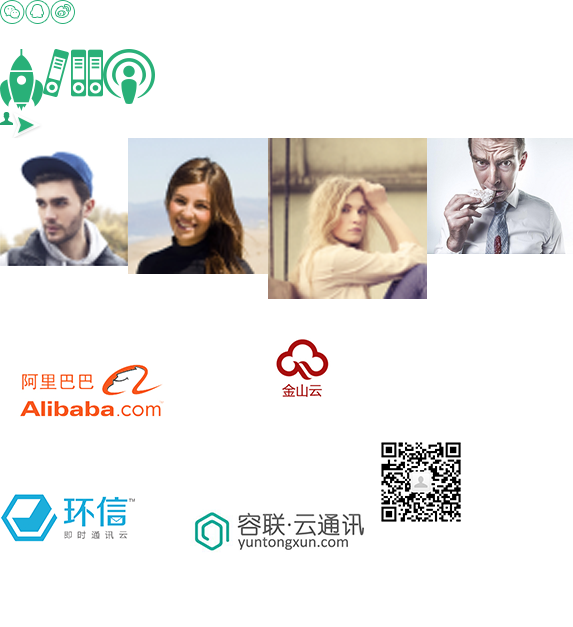
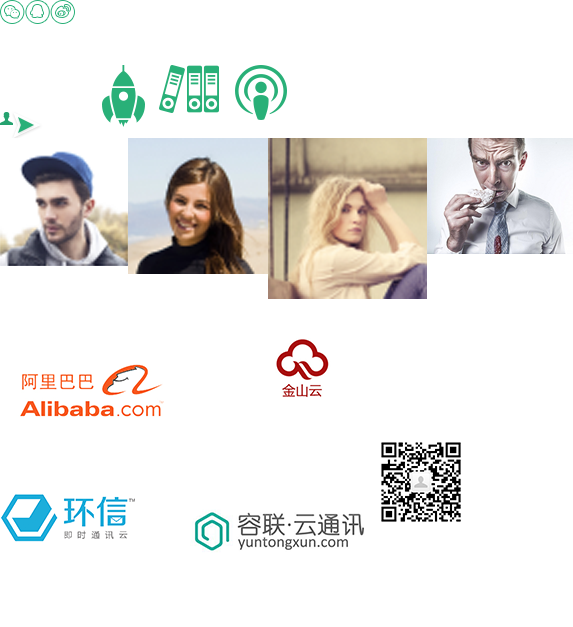
task8.2

Changed region(s): [[0.0, 0.0606, 0.5044, 0.2121]]

diff --git a/task8/task8-1.htm b/task8/task8-1.htm
@@ -81,17 +81,17 @@
 <div class="container-fluid" style="width:90%;margin:0 auto;">
     <div class="row" style="margin-top: 10%;">
     	<div class="col-xs-12 col-sm-6 col-md-6 col-lg-3" style="display: inline-block;text-align: center;margin-bottom: 10%;">
-    		<span style="display: inline-block; background: url(img/task8-1.png);background-position: 0 -49px; height: 62px;width: 43px;"></span>
+    		<span style="display: inline-block; background: url(img/task8-1.png);background-position: -95px -66px; height: 62px;width:60px;"></span>
     		<h3>高效</h3>
     		<span style="text-align: left;display: inline-block;">将五到七年的时间，缩短到一年到三年。</span>
     	</div>
     	<div class="col-xs-12 col-sm-6 col-md-6 col-lg-3" style="display: inline-block;text-align: center;margin-bottom: 10%; ">
-    		<span style="display: inline-block; background: url(img/task8-1.png);background-position: -43px -48px; height: 50px;width:59px;"></span>
+    		<span style="display: inline-block; background: url(img/task8-1.png);background-position: -160px -66px; height: 62px;width:60px;"></span>
     		<h3>规范</h3>
     		<span style="text-align: left;display: inline-block;">标准的实战教程，不会走弯路。</span>
     	</div>
     	<div class="col-xs-12 col-sm-6 col-md-6 col-lg-3" style="display: inline-block;text-align: center;margin-bottom: 10%; ">
-    		<span style="display: inline-block; background: url(img/task8-1.png);background-position: -103px -49px; height: 55px;width: 52px;"></span>
+    		<span style="display: inline-block; background: url(img/task8-1.png);background-position: -234px -65px; height: 62px;width: 60px;"></span>
     		<h3>人脉</h3>
     		<span style="text-align: left;display: inline-block;">同班好友，同院学长，技术大师，入学就混入职脉圈，为以后铺平道路。</span>
     	</div>
@@ -164,9 +164,19 @@
     		<h3>优秀学员展示</h3>
     	</div>
 
+    	
+        <div class="col-xs-12 col-sm-6 col-md-3 col-lg-3" style="display: inline-block;margin-bottom: 5%;text-align:center; ">
+            <div style="border:1px solid #eeeded;border-radius: 20px;padding:5% 5%;">
+            <div style="display: inline-block;width: 120px;height: 116px;border-radius: 50%; background: url(img/task8-1.png);background-position: 0px -138px; ">
+            </div>
+            <p style="font-size: 1.8rem;"><strong>技术顾问：罗大佑</strong></p>
+            <span style=" color: rgb(153, 153, 153);">百度技术总监：互联网基础服务领域，从事虚拟主机、云服务器、域名。曾任新网高级技术经理，负责技术研发、团队管理与建设。</span>
+            </div>
+        </div>
+
     	<div class="col-xs-12 col-sm-6 col-md-3 col-lg-3" style="display: inline-block;margin-bottom: 5%;text-align:center; ">
     		<div style="border:1px solid #eeeded;border-radius: 20px;padding:5% 5%;">
-    		<div style="display: inline-block; width: 128px;height: 128px; border-radius: 50%; background: url(img/task8-1.png);background-position: 0 -138px; ">
+    		<div style="display: inline-block;width: 120px;height: 116px;border-radius: 50%; background: url(img/task8-1.png);background-position: -142px -156px; ">
     		</div>
     		<p style="font-size: 1.8rem;"><strong>技术顾问：罗大佑</strong></p>
             <span style=" color: rgb(153, 153, 153);">百度技术总监：互联网基础服务领域，从事虚拟主机、云服务器、域名。曾任新网高级技术经理，负责技术研发、团队管理与建设。</span>
@@ -175,7 +185,7 @@
 
     	<div class="col-xs-12 col-sm-6 col-md-3 col-lg-3" style="display: inline-block;margin-bottom: 5%;text-align:center; ">
     		<div style="border:1px solid #eeeded;border-radius: 20px;padding:5% 5%;">
-    		<div style="display: inline-block;width: 128px;height: 128px;border-radius: 50%; background: url(img/task8-1.png);background-position: -128px -138px; ">
+    		<div style="display: inline-block;width: 120px;height: 116px;border-radius: 50%; background: url(img/task8-1.png);background-position: -306px -173px; ">
     		</div>
     		<p style="font-size: 1.8rem;"><strong>技术顾问：罗大佑</strong></p>
             <span style=" color: rgb(153, 153, 153);">百度技术总监：互联网基础服务领域，从事虚拟主机、云服务器、域名。曾任新网高级技术经理，负责技术研发、团队管理与建设。</span>
@@ -184,16 +194,7 @@
 
     	<div class="col-xs-12 col-sm-6 col-md-3 col-lg-3" style="display: inline-block;margin-bottom: 5%;text-align:center; ">
     		<div style="border:1px solid #eeeded;border-radius: 20px;padding:5% 5%;">
-    		<div style="display: inline-block;width: 128px;height: 128px;border-radius: 50%; background: url(img/task8-1.png);background-position: -256px -138px; ">
-    		</div>
-    		<p style="font-size: 1.8rem;"><strong>技术顾问：罗大佑</strong></p>
-            <span style=" color: rgb(153, 153, 153);">百度技术总监：互联网基础服务领域，从事虚拟主机、云服务器、域名。曾任新网高级技术经理，负责技术研发、团队管理与建设。</span>
-        	</div>
-    	</div>
-
-    	<div class="col-xs-12 col-sm-6 col-md-3 col-lg-3" style="display: inline-block;margin-bottom: 5%;text-align:center; ">
-    		<div style="border:1px solid #eeeded;border-radius: 20px;padding:5% 5%;">
-    		<div style="display: inline-block;width: 128px;height: 128px;border-radius: 50%; background: url(img/task8-1.png);background-position: -384px -138px; ">
+    		<div style="display: inline-block;width: 120px;height: 116px;border-radius: 50%; background: url(img/task8-1.png);background-position: -443px -139px; ">
     		</div>
     		<p style="font-size: 1.8rem;"><strong>技术顾问：罗大佑</strong></p>
             <span style=" color: rgb(153, 153, 153);">百度技术总监：互联网基础服务领域，从事虚拟主机、云服务器、域名。曾任新网高级技术经理，负责技术研发、团队管理与建设。</span>
@@ -209,10 +210,44 @@
     		</ul>
     	</div>
 
+
+
     	<div class="col-xs-12 col-sm-12 col-md-12 col-lg-12" style="display: inline-block;text-align: center;margin-bottom: 5%; ">
     		<h3>战略合作企业</h3>
     	</div>
-		
+        <div class="col-xs-12 col-sm-12 col-md-12 col-lg-1">
+        </div>
+		<div class="col-xs-12 col-sm-12 col-md-6 col-lg-2" style="text-align: center;padding:1% 1%;">
+          
+            <img style="display: inline-block;"  src="img/task8-z-1.png">
+            
+        </div>
+        
+        <div class="col-xs-12 col-sm-12 col-md-6 col-lg-2" style="text-align: center;padding:1% 1%;">
+          
+            <img style="display: inline-block;" src="img/task8-z-2.png">
+        </div>
+
+        <div class="col-xs-12 col-sm-12 col-md-6 col-lg-2" style="text-align: center;padding:1% 1%;">
+          
+            <img style="display: inline-block;" src="img/task8-z-3.png">
+        </div>
+
+        <div class="col-xs-12 col-sm-12 col-md-6 col-lg-2" style="text-align: center;padding:1% 1%;">
+          
+            <img style="display: inline-block;" src="img/task8-z-4.png">
+        </div>
+
+        <div class="col-xs-12 col-sm-12 col-md-12 col-lg-2" style="text-align: center;padding:1% 1%;">
+          
+            <img style="display: inline-block;" src="img/task8-z-5.png">
+        </div>
+        <div class="col-xs-12 col-sm-12 col-md-12 col-lg-1">
+        </div>
+
+
+
+
 		<div class="col-xs-12 col-sm-6 col-md-4 col-lg-4" style="display: inline-block;text-align: center;margin-bottom: 5%; ">
 			<span style="background:url(img/task8-1.png);background-position: "></span>
 		</div>
@@ -246,6 +281,7 @@
                 </ul>
             </div>
         </div>
+
 </div>
 
 <div style="width: 100%;background-color:rgb(41, 176, 120);margin-top: 10%;padding-bottom: 3%; ">

diff --git a/index/index.html b/index/index.html
@@ -42,8 +42,8 @@ a{color:yellow;text-decoration:none;}
 			        <td><a href="TASK6-1.htm">TASK6<br />雪碧图和BS的护工界面</a></td>
 			     </tr>
 			     <tr>
-			       <td><a href="task7-1.htm">TASK7<br />杀人游戏</a></td>
-			       <td><a href="task8-1.htm">TASK8<br />修真院响应式</a></td>
+			       <td><a href="TASK7-1.htm">TASK7<br />杀人游戏</a></td>
+			       <td><a href="TASK8-1.htm">TASK8<br />修真院响应式</a></td>
 			       <td>task9</td>
 			     </tr>
 			     <tr>
